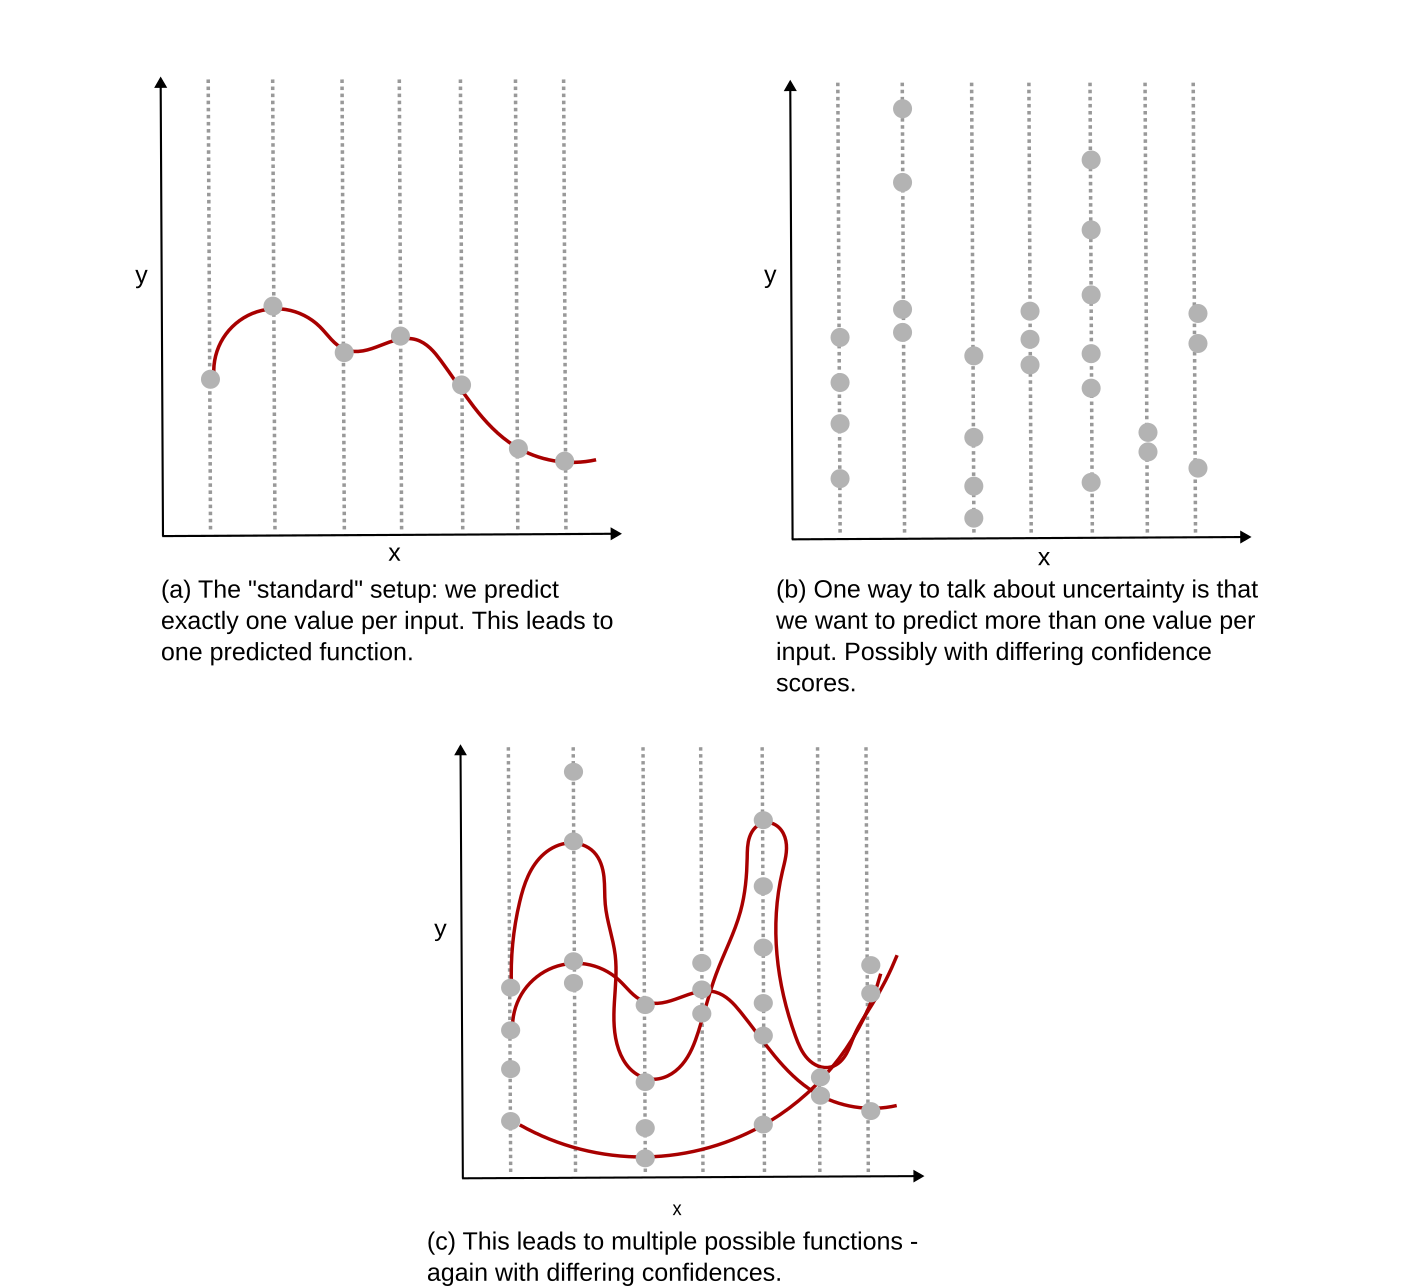
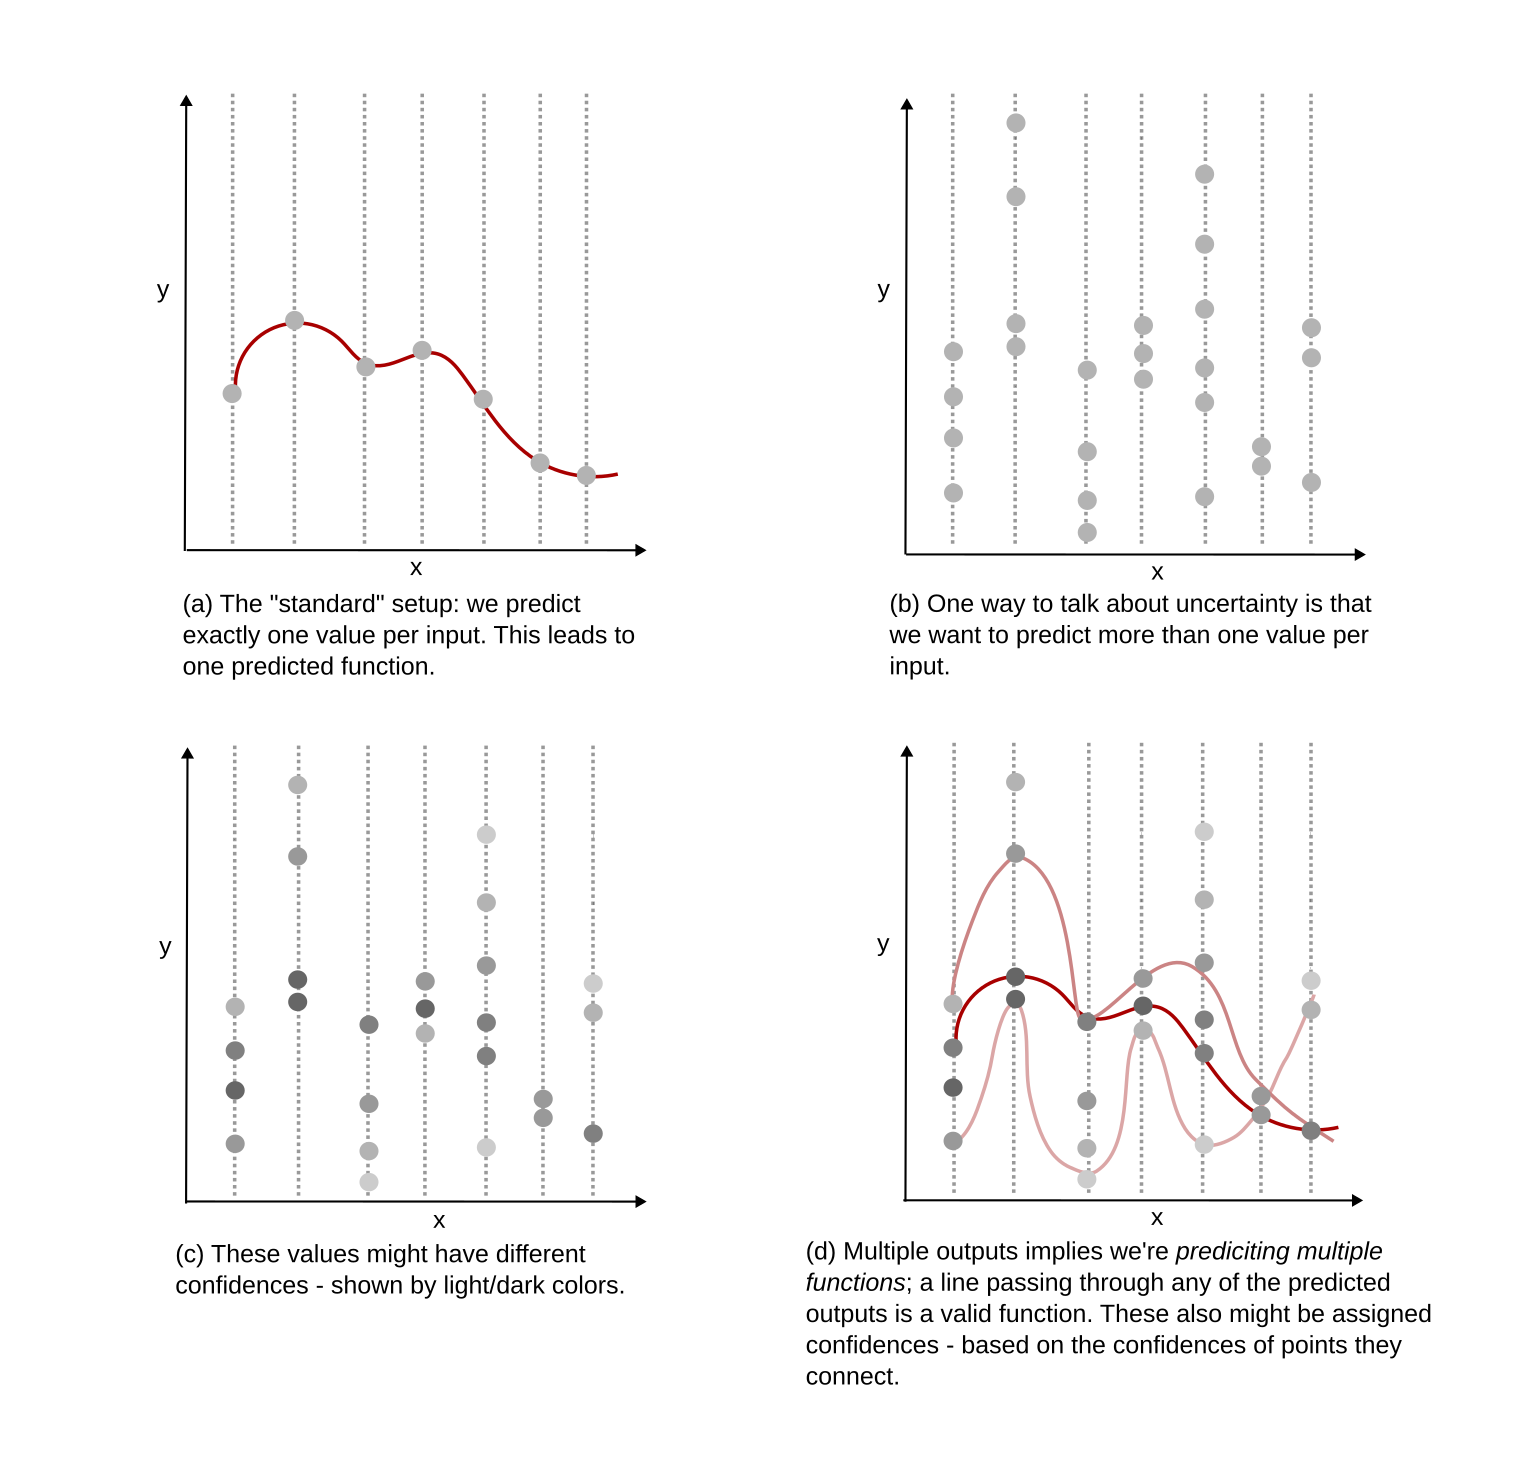
updates to GMM and GP articles

diff --git a/bayesopt_1_key_ideas_GPs.html b/bayesopt_1_key_ideas_GPs.html
@@ -389,7 +389,7 @@ Hopefully, all of this has whetted your appetite to learn more about the two cri
 
 <p>OK, let’s consider the regression angle. You have a bunch of points \((x_i, y_i), i=1...N\) where \(y_i \in \mathbb{R}\), to which you want to fit a function. But when you <em>predict</em>, now that we want to explicitly talk about uncertainties, you don’t want to predict <em>one value</em> for an input.</p>
 
-<p>See (a) below - which is how we typically think about prediction - one input leads to one output only. A line through such outputs represents our model for the function. In (b), we show how predictions might look like when we are not sure yet of what we’ve learned; many values per input. Of course, we might not think all points are equally likely. Many outputs also implies we are effectively predicting <em>many functions</em> - every line that connects some output for given inputs is a possible function - see (c).</p>
+<p>See (a) below - which is how we typically think about prediction - one input leads to one output only. A line through such outputs represents our model for the function. In (b), we show how predictions might look like when we are not sure yet of what we’ve learned; many values per input. Of course, we might not think all points are equally likely - shown in (c). Many outputs also implies we are effectively predicting <em>many functions</em> - every line that connects some output for each input is a possible function. We can also assign a probability to these function predictions by considering the confidences of the individual points they connect  - see (d).</p>
 
 <!-- _includes/image.html -->
 <div class="image-wrapper">
@@ -401,7 +401,7 @@ Hopefully, all of this has whetted your appetite to learn more about the two cri
     
 </div>
 
-<p>That GPs enable (b) and (c) is a good mental model to have. Let’s start getting into details.</p>
+<p>That GPs enable (c) and (d) is a good mental model to have. Let’s start getting into details.</p>
 
 <p>Normally, you would posit a function \(f(x;\theta)\) with parameters \(\theta\), e.g., coefficients in Logistic Regression or weights in a Neural Network, and learn \(\theta\) that best explains the data. This is a <em>parametric</em> model, since \(f\)’s  behavior depends on the parameters \(\theta\). Once you have learned \(\theta\), you can discard your training data \(\{(x_i, y_i)\}_{i=1}^N\). Importantly, these parameters decide the <em>overall shape</em> of your function.</p>
 
